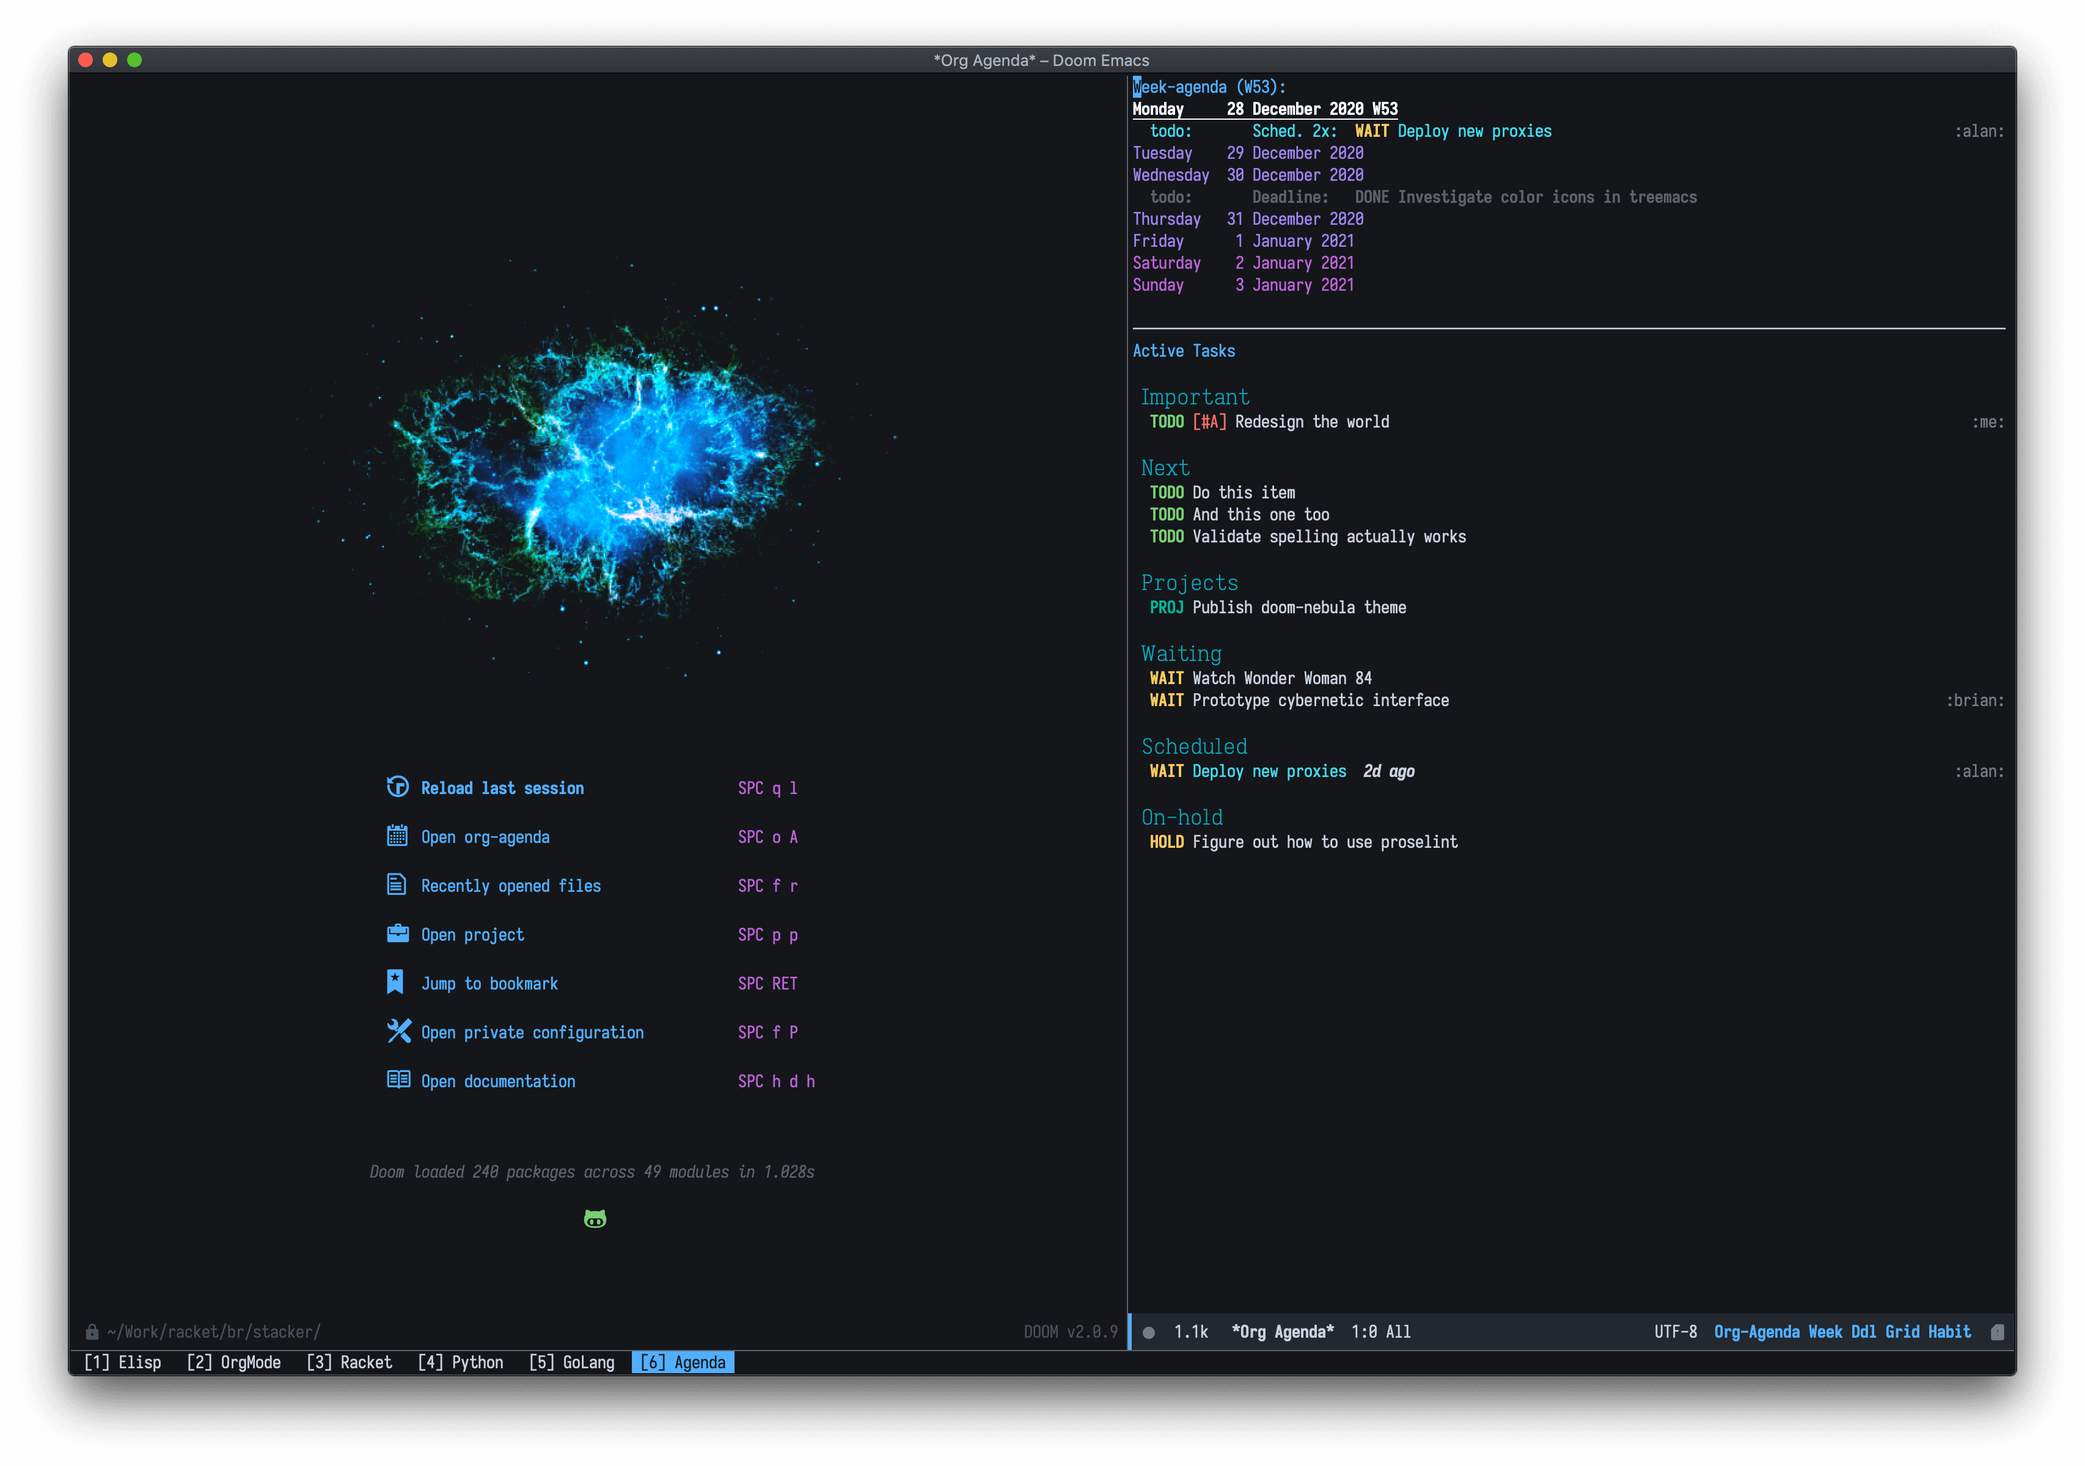
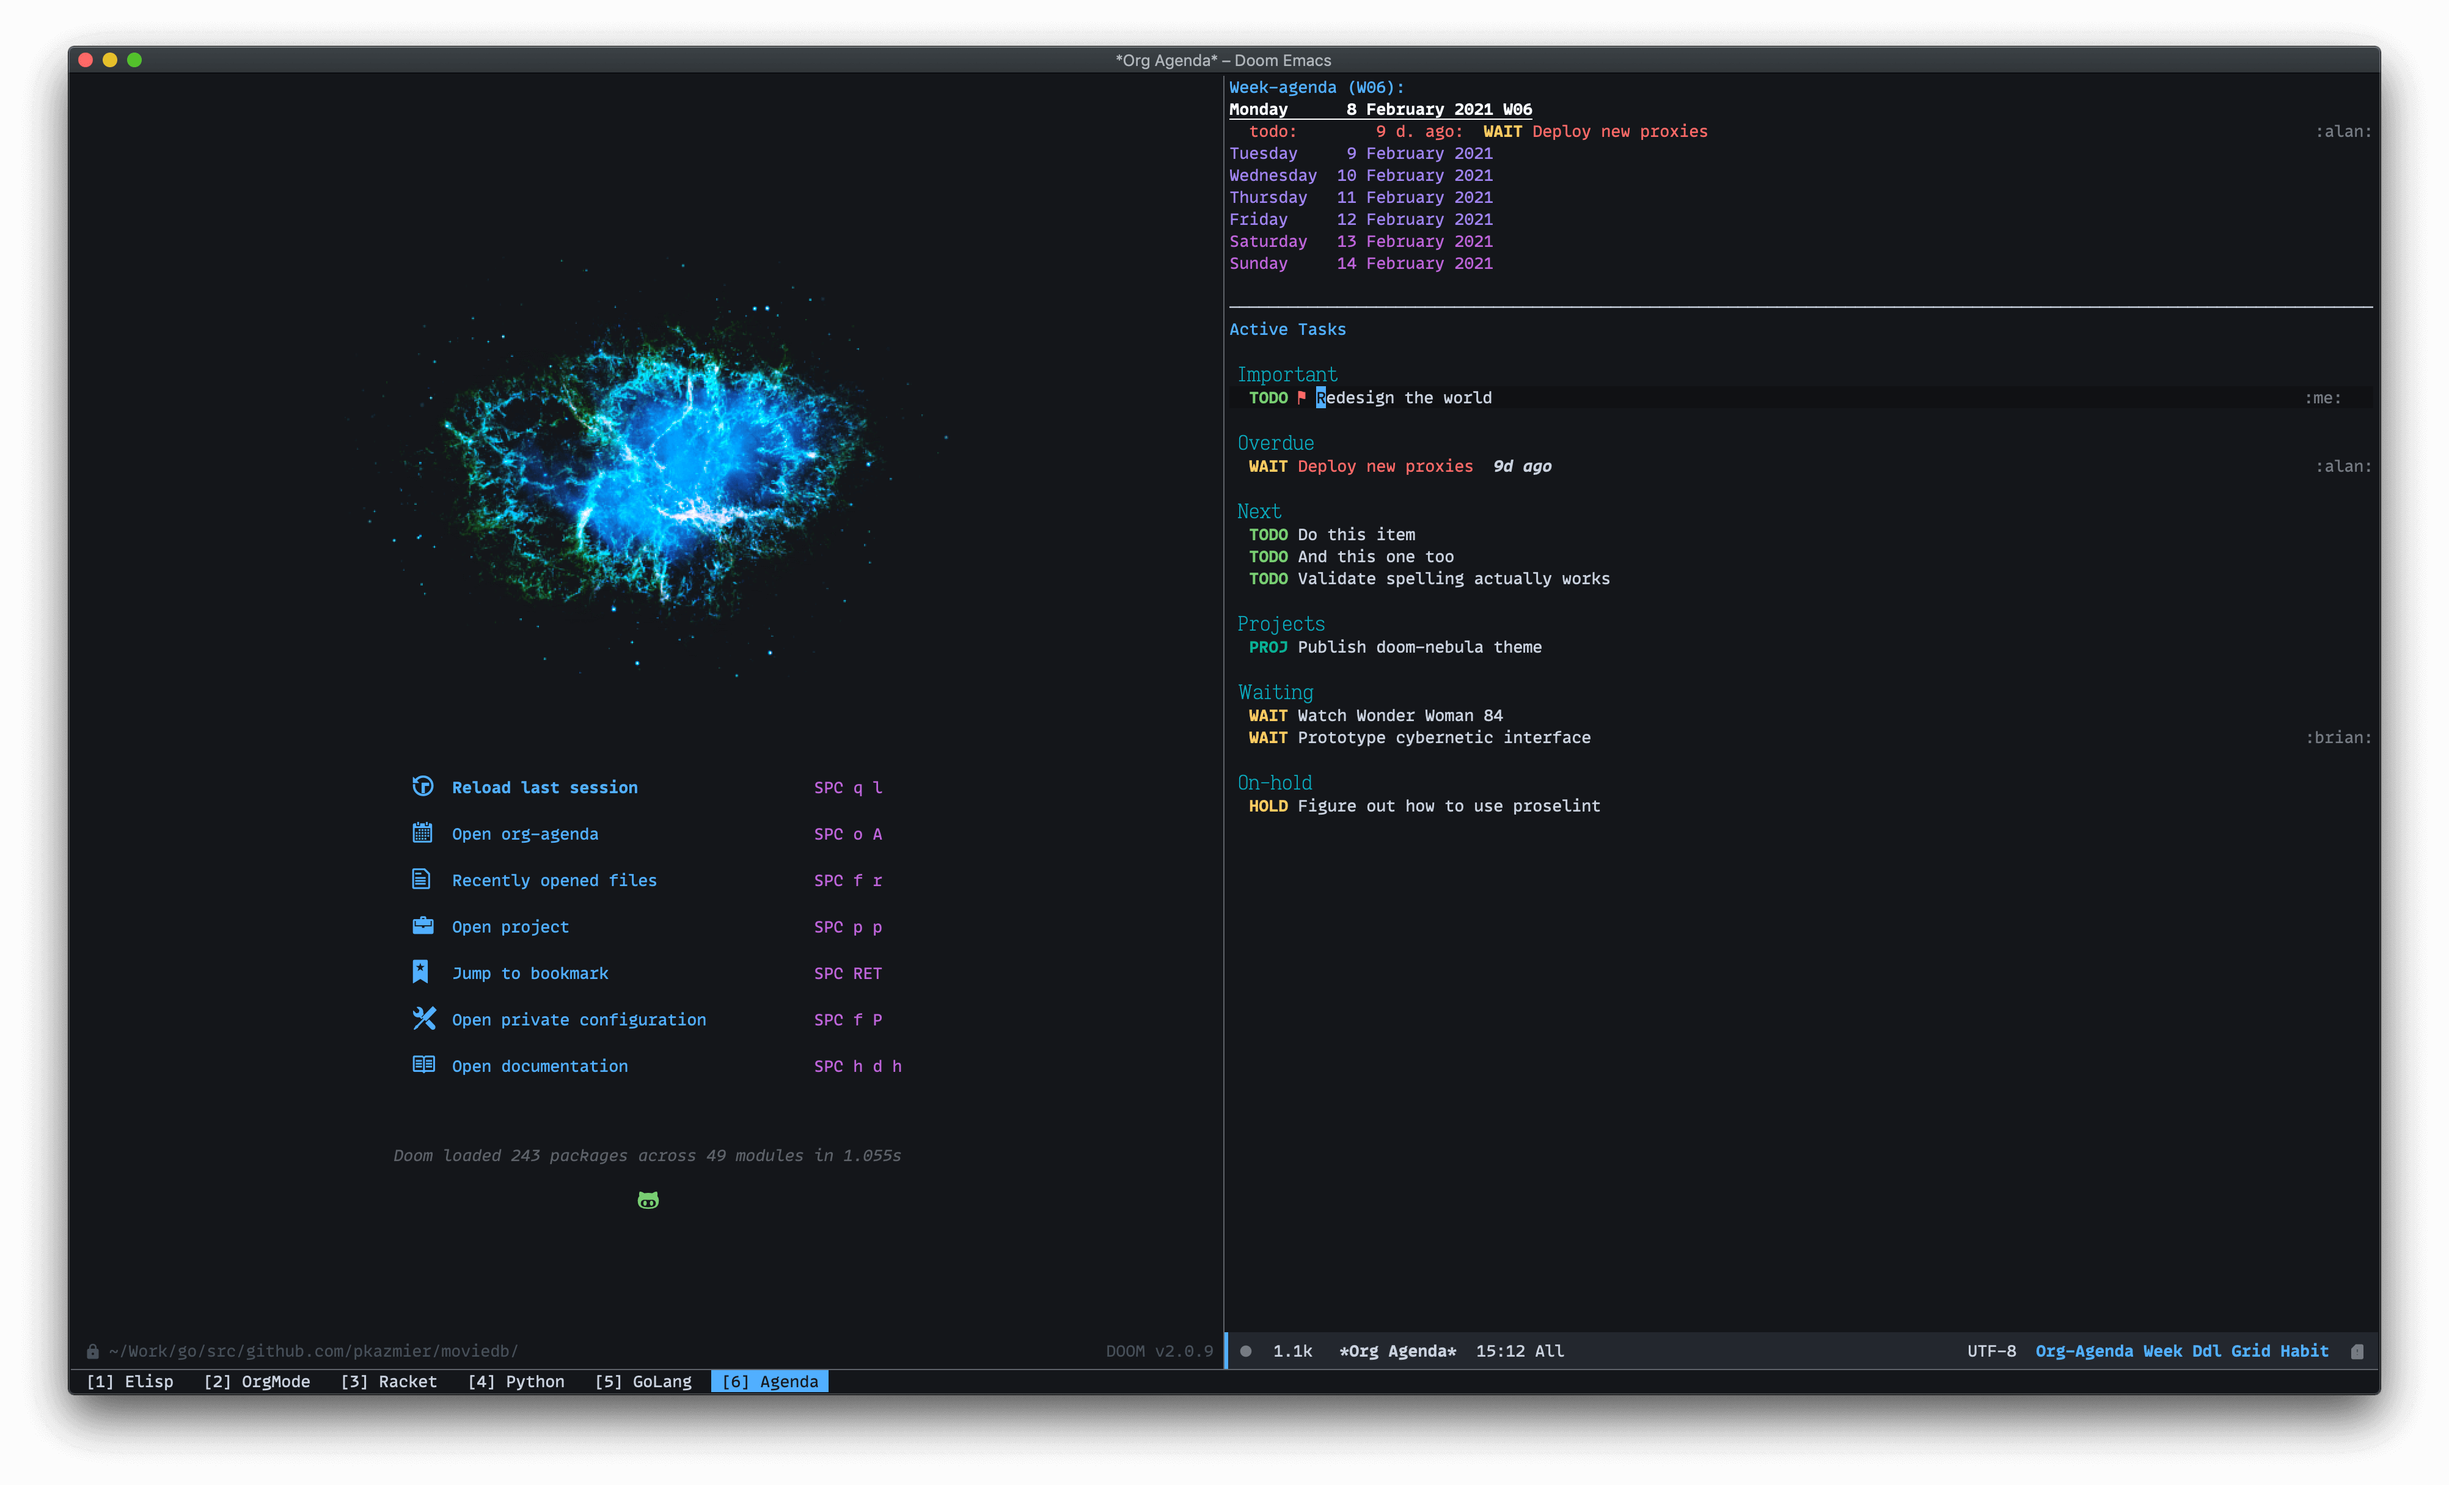
Include screenshots for new blue variant

diff --git a/README.md b/README.md
@@ -1,9 +1,10 @@
 # doom-nebula-theme
-Doom Emacs theme based on `doom-vibrant` theme with influence from the Modus themes.
+Doom Emacs themes based on `doom-vibrant` theme with influence from the Modus themes.
 
 ## Installation
-Copy the `doom-nebula-theme.el` and `nebula.png` file into your `$HOME/.doom.d/themes` directory.
-Add the following lines to your `~/.doom.d/config.el`:
+Copy the `doom-nebula-theme.el`, `doom-nebula-blue-theme.el` and `nebula.png`
+file into your `$HOME/.doom.d/themes` directory.  Add the following lines to
+your `~/.doom.d/config.el`:
 
 ```elisp
 ;; Font settings
@@ -12,28 +13,34 @@ Add the following lines to your `~/.doom.d/config.el`:
       doom-variable-pitch-font (font-spec :family "Iosevka Etoile" :size 12))
 
 ;; Theme settings
-(setq doom-theme 'doom-nebula
+(setq doom-theme 'doom-nebula  ; or doom-nebula-blue
       fancy-splash-image (concat doom-private-dir "themes/nebula.png"))
 
 ```
 
 ## Screenshots
-Below are a handful of screenshots with the modes I use most.
+Below are a handful of screenshots with the modes I use most in both color variants:
 
 ### OrgAgenda
 ![Agenda](https://github.com/pkazmier/doom-nebula-theme/blob/main/screenshots/agenda.png?raw=true)
+![Agenda](https://github.com/pkazmier/doom-nebula-theme/blob/main/screenshots/agenda-blue.png?raw=true)
 
 ### Elisp
 ![Elisp](https://github.com/pkazmier/doom-nebula-theme/blob/main/screenshots/elisp.png?raw=true)
+![Elisp](https://github.com/pkazmier/doom-nebula-theme/blob/main/screenshots/elisp-blue.png?raw=true)
 
 ### OrgMode
 ![OrgMode](https://github.com/pkazmier/doom-nebula-theme/blob/main/screenshots/orgmode.png?raw=true)
+![OrgMode](https://github.com/pkazmier/doom-nebula-theme/blob/main/screenshots/orgmode-blue.png?raw=true)
 
 ### Racket
 ![Racket](https://github.com/pkazmier/doom-nebula-theme/blob/main/screenshots/racket.png?raw=true)
+![Racket](https://github.com/pkazmier/doom-nebula-theme/blob/main/screenshots/racket-blue.png?raw=true)
 
 ### Python
 ![Python](https://github.com/pkazmier/doom-nebula-theme/blob/main/screenshots/python.png?raw=true)
+![Python](https://github.com/pkazmier/doom-nebula-theme/blob/main/screenshots/python-blue.png?raw=true)
 
 ### GoLang
 ![GoLang](https://github.com/pkazmier/doom-nebula-theme/blob/main/screenshots/golang.png?raw=true)
+![GoLang](https://github.com/pkazmier/doom-nebula-theme/blob/main/screenshots/golang-blue.png?raw=true)
